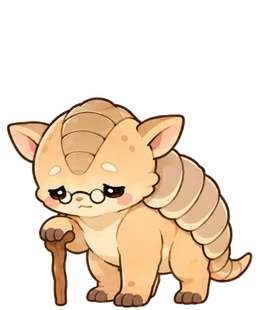
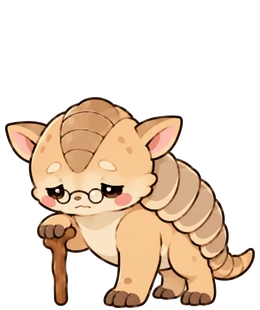
すなまる・ゆらり（おとしより）の 絵 4まい を 差し替え

diff --git a/index.html b/index.html
@@ -5,10 +5,10 @@
 <link rel="icon" type="image/png" sizes="64x64" href="favicon.png?v=3">
 <link rel="apple-touch-icon" href="apple-touch-icon.png?v=3">
 <link rel="manifest" href="manifest.json">
-<script src="stickers/stickers.js?v=202610280822"></script>
-<script src="nakama/nakama.js?v=202610280822"></script>
-<script src="clock/clock.js?v=202610280822"></script>
-<script src="drill/patterns.js?v=202610280822"></script>
+<script src="stickers/stickers.js?v=202610280823"></script>
+<script src="nakama/nakama.js?v=202610280823"></script>
+<script src="clock/clock.js?v=202610280823"></script>
+<script src="drill/patterns.js?v=202610280823"></script>
 <meta name="apple-mobile-web-app-title" content="けいさん">
 <link rel="preconnect" href="https://fonts.googleapis.com">
 <link rel="preconnect" href="https://fonts.gstatic.com" crossorigin>
@@ -3466,7 +3466,7 @@ body.course .levels.nrange .lv{padding:3px 2px;font-size:12px}
   const nkSp = id => NK_LIST.find(x=>x.id===id) || NK_LIST[0];
   // ちいさい だんかいは すこし おおきく みせる（そだって いる かんじは のこす）
   const NK_SCALE = [1.9, 1.5, 1.15, 1, 1, 1];
-  const NK_IMG_VER = "8";   // なかまの え を さしかえたら ばんごうを あげる（ふるい え が のこらない ように）
+  const NK_IMG_VER = "9";   // なかまの え を さしかえたら ばんごうを あげる（ふるい え が のこらない ように）
   const nkImgSrc = (id, stage, mood) => `nakama/${id}/${NK_STAGES[stage]}_${stage===0 && mood==="s" ? "n" : mood}.webp?v=${NK_IMG_VER}`;
   const dkDate = k => { const [y,m,d]=k.split("-").map(Number); return new Date(y, m-1, d); };
   const dkAdd = (k, n) => { const d=dkDate(k); d.setDate(d.getDate()+n); return dayKey(d); };

diff --git a/CHANGELOG.md b/CHANGELOG.md
@@ -12,6 +12,9 @@
 ## 2026-10-28
 
 ### 修正（なかま）
+- **18:53** すなまる（おとしより・にこにこ／しょんぼり）の絵で、あしの数がおかしかったのを直しました。ゆらり（おとしより・ふつう／ひる）には、ほかの段階と同じように うでを つけました。
+
+### 修正（なかま）
 - **13:30** ほたるび（わかもの・おとな・おとしより のひる）、すなまる（わかもの・にこにこ／おとな・ひる）の絵で、手やあしの数がおかしかったのを直しました。
 
 ### 修正（なかま）
